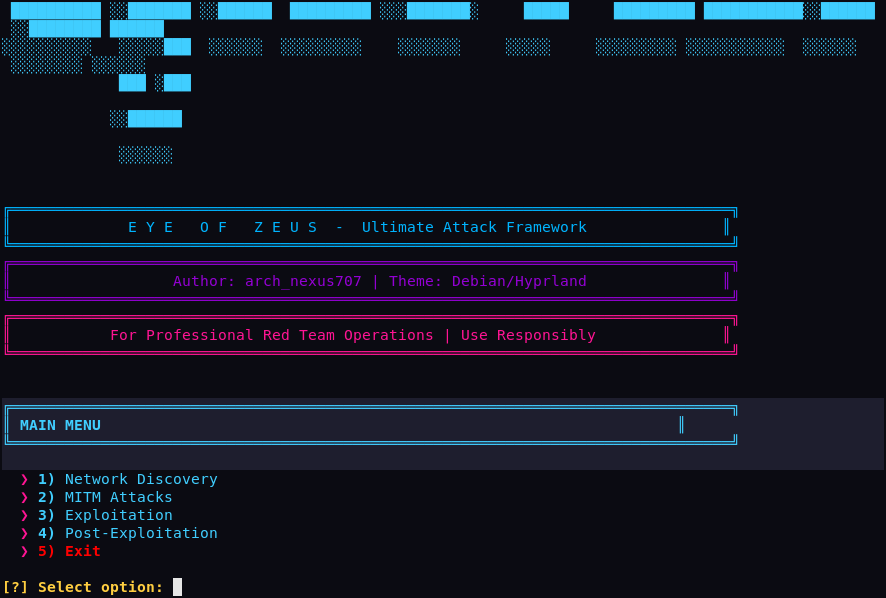
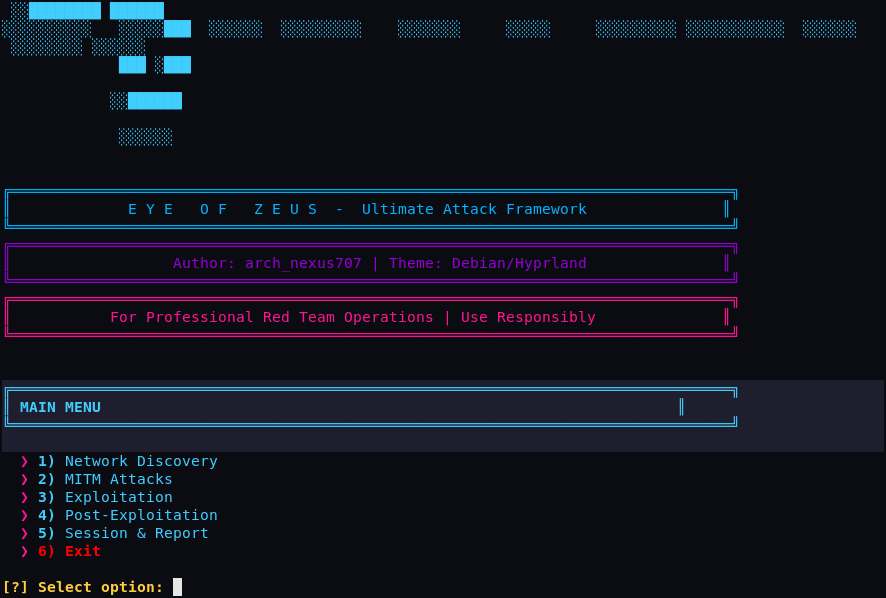
Re-record demo to show the scope guard prompt
Walk the demo into an RDP exploit, enter a target IP, and capture the scope
guard refusing an out-of-scope target (y/N prompt). Refresh the main-menu and
exploitation screenshots for the new 6-item menu; replace the SMBGhost shot.

diff --git a/README.md b/README.md
@@ -12,9 +12,9 @@ Author: arch_nexus707
 
 ![Eye of Zeus demo](docs/media/eye_of_zeus_demo.gif)
 
-| Main menu | Exploitation | SMB / SMBGhost |
+| Main menu | Exploitation | Scope guard |
 | --- | --- | --- |
-| ![main menu](docs/media/01_main_menu.png) | ![exploitation](docs/media/02_exploitation.png) | ![smb smbghost](docs/media/03_smb_smbghost.png) |
+| ![main menu](docs/media/01_main_menu.png) | ![exploitation](docs/media/02_exploitation.png) | ![scope prompt](docs/media/03_scope_prompt.png) |
 
 ## Before you use it
 